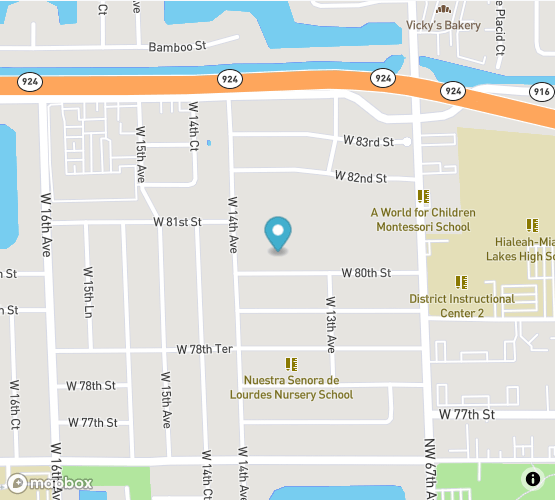
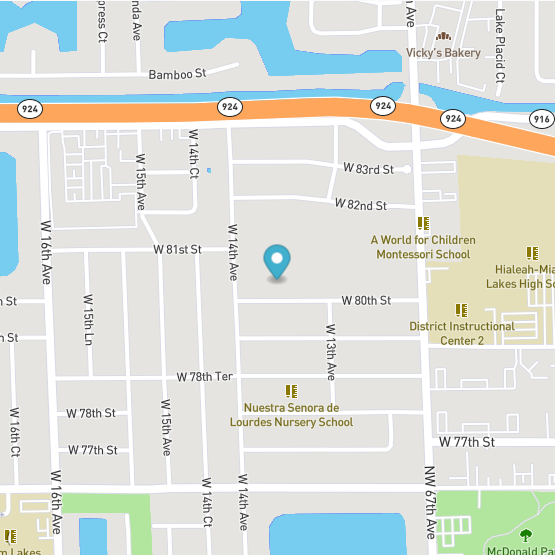
disable mapbox

diff --git a/index.html b/index.html
@@ -177,7 +177,7 @@
 	<section id="projects" class="ftco-section">
 		<div class="container-fluid px-md-0 pb-0">
 
-			<div class="row justify-content-center mb-0">
+			<div class="row justify-content-center m-0">
 				<div class="col-md-10 text-center heading-section">
 					<span class="subheading">Projects</span>
 					<h2 class="mb-4">Portfolio</h2>
@@ -454,7 +454,7 @@
 							</div>
 
 							<div class="col-md-6 d-flex align-items-stretch">	
-								<div id='map' style='width: 555px; height: 500px; background-image: url(images/map-bg.png);'></div>
+								<div id='map' style='width: 555px; height: 555px; background-image: url(images/map-bg.png);'></div>
 							</div>
 						</div>
 					</div>
@@ -528,9 +528,8 @@
 	<script src="js/bootstrap.min.js"></script>
 	<script src="js/lightgallery.min.js"></script>
 	<script src="js/main.js"></script>
-	<script src='https://api.mapbox.com/mapbox-gl-js/v1.8.1/mapbox-gl.js'></script>
-	<script>
-		// map
+	<!-- <script src='https://api.mapbox.com/mapbox-gl-js/v1.8.1/mapbox-gl.js'></script> -->
+	<!-- <script>
 		mapboxgl.accessToken = 'pk.eyJ1IjoicmVsbGJpdHMiLCJhIjoiY2thNWxzMml0MDFsZjNucThhNXhpejc4cyJ9.MQ6hz_ADs1zgb2uxnOCyug';
 		var map = new mapboxgl.Map({
 			container: 'map',
@@ -545,7 +544,7 @@
 		var marker = new mapboxgl.Marker()
 			.setLngLat([-80.311181,25.895611])
 			.addTo(map);
-	</script>
+	</script> -->
 
 </body>
 </html>
